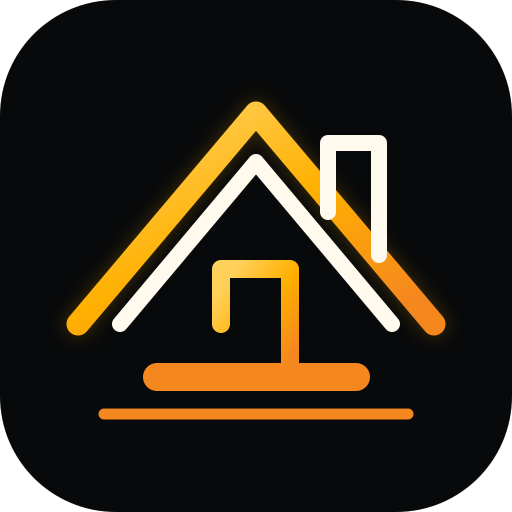
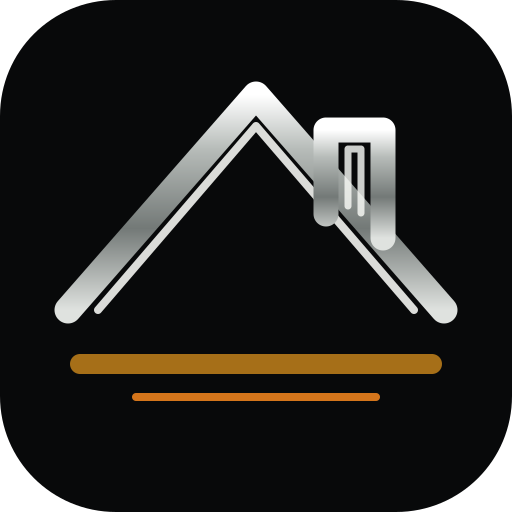
fix(brand): refine sharing image and mobile scroll

Changed region(s): [[0.0938, 0.1562, 0.9062, 0.6562], [0.125, 0.5, 0.875, 0.8438]]

diff --git a/src/app/opengraph-image.tsx b/src/app/opengraph-image.tsx
@@ -11,33 +11,42 @@ export default function OpenGraphImage() {
         style={{
           alignItems: 'stretch',
           backgroundColor: '#08090A',
-          backgroundImage: 'radial-gradient(circle at 86% 12%, rgba(255,176,0,0.30), transparent 26%), radial-gradient(circle at 7% 96%, rgba(245,135,31,0.24), transparent 34%)',
           color: '#FFF9EE',
           display: 'flex',
           flexDirection: 'column',
           height: '100%',
           justifyContent: 'space-between',
-          padding: '58px 68px',
+          overflow: 'hidden',
+          padding: '46px 64px',
           position: 'relative',
           width: '100%',
         }}
       >
-        <div style={{ display: 'flex', alignItems: 'center', gap: 20 }}>
-          <div style={{ alignItems: 'center', background: '#FFB000', borderRadius: 24, color: '#08090A', display: 'flex', fontSize: 42, fontWeight: 900, height: 92, justifyContent: 'center', letterSpacing: -4, width: 92 }}>SF</div>
-          <div style={{ display: 'flex', flexDirection: 'column', gap: 4 }}>
-            <div style={{ color: '#FFF9EE', fontSize: 31, fontWeight: 800, letterSpacing: 3 }}>SOLUCIONES</div>
-            <div style={{ color: '#FFB000', fontSize: 48, fontWeight: 900, letterSpacing: 5 }}>FABRICK</div>
+        <div style={{ backgroundColor: '#121417', bottom: -170, height: 480, opacity: 0.9, position: 'absolute', right: -150, transform: 'rotate(-25deg)', width: 720 }} />
+        <div style={{ backgroundColor: '#FFB000', bottom: 74, height: 3, opacity: 0.65, position: 'absolute', right: -80, transform: 'rotate(-25deg)', width: 700 }} />
+        <div style={{ backgroundColor: '#F5871F', bottom: 118, height: 2, opacity: 0.55, position: 'absolute', right: -120, transform: 'rotate(-25deg)', width: 730 }} />
+
+        <div style={{ display: 'flex', flexDirection: 'column', gap: 8, position: 'relative' }}>
+          <div style={{ display: 'flex', height: 82, position: 'relative', width: 350 }}>
+            <div style={{ backgroundColor: '#D4D7D4', borderRadius: 8, height: 7, left: 18, position: 'absolute', top: 45, transform: 'rotate(-20deg)', transformOrigin: 'right center', width: 170 }} />
+            <div style={{ backgroundColor: '#8C9290', borderRadius: 8, height: 7, left: 177, position: 'absolute', top: 45, transform: 'rotate(20deg)', transformOrigin: 'left center', width: 170 }} />
+            <div style={{ backgroundColor: '#F5F6F3', borderRadius: 8, height: 4, left: 28, position: 'absolute', top: 51, transform: 'rotate(-20deg)', transformOrigin: 'right center', width: 160 }} />
+            <div style={{ backgroundColor: '#B8BDBA', borderRadius: 8, height: 4, left: 177, position: 'absolute', top: 51, transform: 'rotate(20deg)', transformOrigin: 'left center', width: 160 }} />
+            <div style={{ backgroundColor: '#B6BBB8', borderRadius: 4, height: 42, left: 240, position: 'absolute', top: 7, width: 30 }} />
+            <div style={{ backgroundColor: '#EFF1EE', borderRadius: 3, height: 34, left: 246, position: 'absolute', top: 10, width: 7 }} />
           </div>
+          <div style={{ color: '#E8B43C', fontSize: 37, fontWeight: 900, letterSpacing: 1.2, lineHeight: 1 }}>SOLUCIONES FABRICK</div>
+          <div style={{ color: '#C1C4C1', fontSize: 17, fontWeight: 800, letterSpacing: 4 }}>CONSTRUCCIÓN · REMODELACIÓN · REPARACIÓN</div>
         </div>
 
-        <div style={{ display: 'flex', flexDirection: 'column', gap: 20, maxWidth: 930 }}>
-          <div style={{ color: '#FFF9EE', fontSize: 72, fontWeight: 900, letterSpacing: -3, lineHeight: 1.02 }}>Construye, remodela y transforma con claridad.</div>
-          <div style={{ color: '#D6CFC2', fontSize: 29, lineHeight: 1.35 }}>Construcción · Remodelación · Reparación · Región del Maule y Chile</div>
+        <div style={{ display: 'flex', flexDirection: 'column', gap: 17, maxWidth: 830, position: 'relative' }}>
+          <div style={{ color: '#FFF9EE', fontSize: 65, fontWeight: 900, letterSpacing: -2.2, lineHeight: 1.03 }}>Construye y transforma con respaldo técnico.</div>
+          <div style={{ color: '#D6D2CB', fontSize: 27, fontWeight: 600, lineHeight: 1.35 }}>Evaluación clara, materiales duraderos y ejecución por etapas para tu proyecto.</div>
         </div>
 
-        <div style={{ alignItems: 'center', borderTop: '2px solid rgba(255,176,0,0.48)', display: 'flex', justifyContent: 'space-between', paddingTop: 22 }}>
-          <div style={{ color: '#FFB000', fontSize: 21, fontWeight: 800, letterSpacing: 3 }}>SOLUCIONESFABRICK.COM</div>
-          <div style={{ color: '#FFF9EE', fontSize: 21, fontWeight: 700 }}>Construimos casas, Dios construye hogares.</div>
+        <div style={{ alignItems: 'center', borderTop: '2px solid #7D621D', display: 'flex', justifyContent: 'space-between', paddingTop: 20, position: 'relative' }}>
+          <div style={{ color: '#FFB000', fontSize: 20, fontWeight: 900, letterSpacing: 3 }}>SOLUCIONESFABRICK.COM</div>
+          <div style={{ color: '#FFF9EE', fontSize: 19, fontWeight: 700 }}>Maule · Chile</div>
         </div>
       </div>
     ),

diff --git a/src/components/SmoothScrollProvider.tsx b/src/components/SmoothScrollProvider.tsx
@@ -49,17 +49,20 @@ export default function SmoothScrollProvider() {
     if (prefersReducedMotion()) return;
 
     const desktop = !prefersNativeScroll();
+    // Mobile browsers already provide momentum scrolling. Keeping Lenis and
+    // dozens of ScrollTriggers active there can compete with touch scrolling.
+    if (!desktop) return;
+
     let lenis: Lenis | null = null;
 
-    if (desktop) {
-      lenis = new Lenis({ duration: 1.08, smoothWheel: true, wheelMultiplier: 0.9 });
-      lenis.on('scroll', ScrollTrigger.update);
-      const ticker = (time: number) => lenis?.raf(time * 1000);
-      gsap.ticker.add(ticker);
-      gsap.ticker.lagSmoothing(0);
-      tickerRef.current = ticker;
-      lenisRef.current = lenis;
-    }
+    ScrollTrigger.config({ ignoreMobileResize: true, limitCallbacks: true });
+    lenis = new Lenis({ duration: 0.9, smoothWheel: true, wheelMultiplier: 0.9 });
+    lenis.on('scroll', ScrollTrigger.update);
+    const ticker = (time: number) => lenis?.raf(time * 1000);
+    gsap.ticker.add(ticker);
+    gsap.ticker.lagSmoothing(500, 33);
+    tickerRef.current = ticker;
+    lenisRef.current = lenis;
 
     const context = gsap.context(() => {
       const viewport = window.innerHeight;
@@ -113,20 +116,18 @@ export default function SmoothScrollProvider() {
         });
       });
 
-      if (desktop) {
-        gsap.utils.toArray<HTMLElement>('[data-parallax]').forEach((element) => {
-          gsap.to(element, {
-            yPercent: Number(element.dataset.parallax || -6),
-            ease: 'none',
-            scrollTrigger: {
-              trigger: element.closest('section') || element,
-              start: 'top bottom',
-              end: 'bottom top',
-              scrub: 1.2,
-            },
-          });
+      gsap.utils.toArray<HTMLElement>('[data-parallax]').forEach((element) => {
+        gsap.to(element, {
+          yPercent: Number(element.dataset.parallax || -6),
+          ease: 'none',
+          scrollTrigger: {
+            trigger: element.closest('section') || element,
+            start: 'top bottom',
+            end: 'bottom top',
+            scrub: 0.8,
+          },
         });
-      }
+      });
     });
 
     const refreshId = window.setTimeout(() => ScrollTrigger.refresh(), 160);
@@ -134,7 +135,7 @@ export default function SmoothScrollProvider() {
       window.clearTimeout(refreshId);
       context.revert();
       if (tickerRef.current) gsap.ticker.remove(tickerRef.current);
-      gsap.ticker.lagSmoothing(1.2);
+      gsap.ticker.lagSmoothing(500, 33);
       lenisRef.current?.destroy();
       lenisRef.current = null;
       tickerRef.current = null;
@@ -149,7 +150,7 @@ export default function SmoothScrollProvider() {
       .fabrick-glass { background: linear-gradient(145deg, rgba(248,240,233,.09), rgba(248,240,233,.03)); box-shadow: 0 24px 70px rgba(0,0,0,.24); backdrop-filter: blur(12px); -webkit-backdrop-filter: blur(12px); }
       .fabrick-gradient-button { position: relative; isolation: isolate; overflow: hidden; background: linear-gradient(112deg, #F5871F, #FFB000 62%, #FFF9EE); box-shadow: 0 14px 38px rgba(182,144,108,.18); transition: transform .25s ease, box-shadow .25s ease, filter .25s ease; }
       .fabrick-gradient-button:hover { transform: translateY(-2px); filter: brightness(1.03); box-shadow: 0 18px 48px rgba(182,144,108,.25); }
-      @media (hover: none), (pointer: coarse), (max-width: 899px) { [data-parallax] { transform: none !important; } .fabrick-glass { backdrop-filter: blur(8px); -webkit-backdrop-filter: blur(8px); } }
+      @media (hover: none), (pointer: coarse), (max-width: 899px) { [data-parallax] { transform: none !important; } .fabrick-glass { backdrop-filter: none; -webkit-backdrop-filter: none; } }
       @media (prefers-reduced-motion: reduce) { *, *::before, *::after { scroll-behavior: auto !important; animation-duration: .01ms !important; animation-iteration-count: 1 !important; } [data-reveal], [data-reveal-group] > *, [data-split] { opacity: 1 !important; transform: none !important; } }
     `}</style>
   );

diff --git a/src/app/layout.tsx b/src/app/layout.tsx
@@ -45,9 +45,9 @@ export const metadata: Metadata = {
   applicationName: 'Soluciones Fabrick',
   category: 'Construcción, remodelación y reparación del hogar',
   openGraph: {
-    title: 'Soluciones Fabrick | Construye, remodela y transforma con claridad',
+    title: 'Soluciones Fabrick | Construye y transforma con respaldo técnico',
     description:
-      'Construcción, remodelación, reparaciones e instalaciones para ordenar tu proyecto antes de ejecutar.',
+      'Construcción, remodelación y reparación con evaluación técnica, materiales duraderos y una ruta clara de ejecución.',
     url: SITE_URL,
     siteName: 'Soluciones Fabrick',
     locale: 'es_CL',
@@ -56,8 +56,8 @@ export const metadata: Metadata = {
   },
   twitter: {
     card: 'summary_large_image',
-    title: 'Soluciones Fabrick | Construcción y remodelación con un plan claro',
-    description: 'Evalúa, cotiza y transforma tu proyecto con una ruta clara de construcción, reparación y remodelación.',
+    title: 'Soluciones Fabrick | Construye y transforma con respaldo técnico',
+    description: 'Construcción, remodelación y reparación con evaluación clara, materiales duraderos y ejecución por etapas.',
     images: ['/twitter-image'],
   },
   robots: {

diff --git a/src/app/globals.css b/src/app/globals.css
@@ -80,7 +80,9 @@
 
 html { scroll-padding-top: 80px; }
 * { box-sizing: border-box; }
-html, body, header, nav, main, footer, section, article, aside, div, p, h1, h2, h3, h4, h5, h6, a, button, span { transition: background-color 300ms ease, color 300ms ease, border-color 300ms ease; }
+/* Keep colour transitions on controls only. Applying them to every rendered
+   element forces unnecessary style work while the visitor scrolls. */
+a, button, input, textarea, select, [data-theme-transition] { transition: background-color 220ms ease, color 220ms ease, border-color 220ms ease; }
 html { background-color: var(--bg); color: var(--text); }
 body { background-color: var(--bg); color: var(--text); font-family: 'Inter', sans-serif; -webkit-font-smoothing: antialiased; }
 
